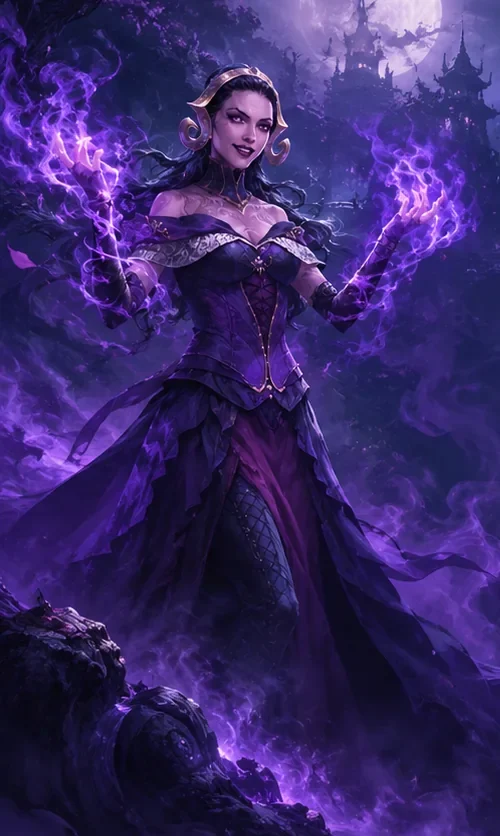
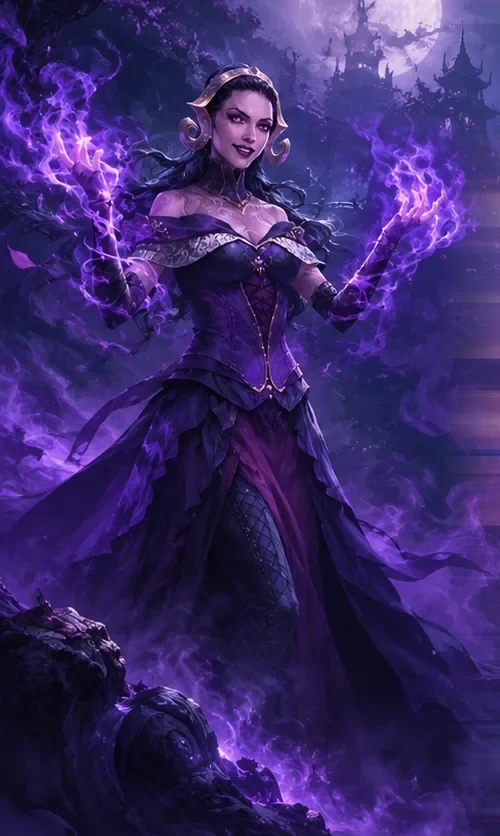
Suaviza la apertura de la intro y elimina la costura entre mitades
La escena se disuelve con menos desplazamiento, más desenfoque y una inercia
corta. Las mitades se solapan 1 px y el compuesto móvil funde el centro para
que no aparezca la raya oscura al estar juntas.

diff --git a/styles.css b/styles.css
@@ -186,11 +186,11 @@ ul { margin: 0; padding: 0; list-style: none; }
   position: absolute;
   top: 0;
   bottom: 0;
-  width: 50%;
+  width: calc(50% + 0.5px);
   overflow: hidden;
   will-change: translate, rotate, scale, opacity, filter;
-  opacity: calc(1 - var(--open) * var(--open) * 0.9);
-  filter: blur(calc(var(--open) * var(--open) * 2.4px));
+  opacity: calc(1 - var(--open) * var(--open) * 0.82);
+  filter: blur(calc(var(--open) * var(--open) * 10px)) saturate(calc(1 - var(--open) * 0.22));
 }
 .scene-half picture { display: contents; }
 .scene-half img {
@@ -206,21 +206,21 @@ ul { margin: 0; padding: 0; list-style: none; }
 .scene-half-l {
   left: 0;
   transform-origin: left center;
-  translate: calc(var(--open) * -52vw) calc(var(--open) * 2.2vh);
-  rotate: calc(var(--open) * -1.1deg);
-  scale: calc(1 + var(--open) * 0.16);
-  -webkit-mask-image: linear-gradient(to right, #000 0%, #000 calc(100% - var(--open) * var(--open) * 34%), rgba(0, 0, 0, 0) 100%);
-  mask-image: linear-gradient(to right, #000 0%, #000 calc(100% - var(--open) * var(--open) * 34%), rgba(0, 0, 0, 0) 100%);
+  translate: calc(var(--open) * -12vw) calc(var(--open) * 1.2vh);
+  rotate: calc(var(--open) * -0.45deg);
+  scale: calc(1 + var(--open) * 0.045);
+  -webkit-mask-image: linear-gradient(to right, #fff 0%, #fff calc(100% - var(--open) * var(--open) * 34%), transparent 100%);
+  mask-image: linear-gradient(to right, #fff 0%, #fff calc(100% - var(--open) * var(--open) * 34%), transparent 100%);
 }
 .scene-half-l img { left: 0; }
 .scene-half-r {
   right: 0;
   transform-origin: right center;
-  translate: calc(var(--open) * 52vw) calc(var(--open) * -2.2vh);
-  rotate: calc(var(--open) * 1.1deg);
-  scale: calc(1 + var(--open) * 0.16);
-  -webkit-mask-image: linear-gradient(to left, #000 0%, #000 calc(100% - var(--open) * var(--open) * 34%), rgba(0, 0, 0, 0) 100%);
-  mask-image: linear-gradient(to left, #000 0%, #000 calc(100% - var(--open) * var(--open) * 34%), rgba(0, 0, 0, 0) 100%);
+  translate: calc(var(--open) * 12vw) calc(var(--open) * -1.2vh);
+  rotate: calc(var(--open) * 0.45deg);
+  scale: calc(1 + var(--open) * 0.045);
+  -webkit-mask-image: linear-gradient(to left, #fff 0%, #fff calc(100% - var(--open) * var(--open) * 34%), transparent 100%);
+  mask-image: linear-gradient(to left, #fff 0%, #fff calc(100% - var(--open) * var(--open) * 34%), transparent 100%);
 }
 .scene-half-r img { left: -100%; }
 
@@ -230,12 +230,12 @@ ul { margin: 0; padding: 0; list-style: none; }
   bottom: 0;
   left: 50%;
   z-index: 1;
-  width: calc(2px + var(--open) * 90px);
+  width: calc(1px + var(--open) * 70px);
   transform: translateX(-50%);
   background: linear-gradient(180deg, transparent, rgba(255, 143, 184, 0.5) 28%, rgba(139, 107, 255, 0.75) 52%, rgba(79, 240, 216, 0.4) 72%, transparent);
-  filter: blur(calc(1px + var(--open) * 9px));
-  opacity: calc(var(--open) * 1.2 * (1 - var(--fade)));
-  box-shadow: 0 0 80px 18px rgba(139, 107, 255, 0.18);
+  filter: blur(calc(0.5px + var(--open) * 8px));
+  opacity: calc(var(--open) * 0.95 * (1 - var(--fade)));
+  box-shadow: 0 0 70px 16px rgba(139, 107, 255, 0.16);
   mix-blend-mode: screen;
   pointer-events: none;
 }
@@ -525,8 +525,8 @@ body.has-pointer .cursor-glow { opacity: 1; }
   padding: clamp(52px, 8vh, 104px) 0 clamp(84px, 10vh, 120px);
   overflow: hidden;
   isolation: isolate;
-  --open: clamp(0, calc(var(--scene, 0) / 0.45), 1);
-  --fade: clamp(0, calc((var(--scene, 0) - 0.45) / 0.17), 1);
+  --open: clamp(0, calc(var(--scene, 0) / 0.5), 1);
+  --fade: clamp(0, calc((var(--scene, 0) - 0.42) / 0.2), 1);
 }
 .hero .wrap { position: relative; z-index: 2; }
 .hero .hero-copy {
@@ -534,6 +534,7 @@ body.has-pointer .cursor-glow { opacity: 1; }
   filter: blur(calc(var(--fade) * 5px));
   translate: 0 calc(var(--fade) * -24px);
   scale: calc(1 - var(--fade) * 0.02);
+  will-change: opacity, filter, translate, scale;
 }
 .hero.is-revealed .hero-copy,
 .hero.is-revealed .scroll-cue {
@@ -1643,18 +1644,18 @@ body.has-pointer .cursor-glow { opacity: 1; }
   .scene-half img { width: 100%; height: 100%; left: 0; object-position: center top; }
   .scene-half-r img { left: 0; }
   .scene-half-l {
-    -webkit-mask-image: linear-gradient(to right, #fff 0%, #fff 86%, rgba(255, 255, 255, 0.5) 96%, transparent 100%);
-    mask-image: linear-gradient(to right, #fff 0%, #fff 86%, rgba(255, 255, 255, 0.5) 96%, transparent 100%);
+    translate: calc(var(--open) * -7vw) calc(var(--open) * 1vh);
+    -webkit-mask-image: linear-gradient(to right, #fff 0%, #fff calc(100% - var(--open) * 18%), transparent 100%);
+    mask-image: linear-gradient(to right, #fff 0%, #fff calc(100% - var(--open) * 18%), transparent 100%);
   }
   .scene-half-r {
-    -webkit-mask-image: linear-gradient(to left, #fff 0%, #fff 86%, rgba(255, 255, 255, 0.5) 96%, transparent 100%);
-    mask-image: linear-gradient(to left, #fff 0%, #fff 86%, rgba(255, 255, 255, 0.5) 96%, transparent 100%);
+    translate: calc(var(--open) * 7vw) calc(var(--open) * -1vh);
+    -webkit-mask-image: linear-gradient(to left, #fff 0%, #fff calc(100% - var(--open) * 18%), transparent 100%);
+    mask-image: linear-gradient(to left, #fff 0%, #fff calc(100% - var(--open) * 18%), transparent 100%);
   }
   .scene-haze {
     opacity: 1;
-    background:
-      linear-gradient(90deg, transparent 0%, rgba(7, 5, 13, 0.32) 44%, rgba(7, 5, 13, 0.48) 50%, rgba(7, 5, 13, 0.32) 56%, transparent 100%),
-      linear-gradient(180deg, rgba(7, 5, 13, 0.12) 0%, transparent 20%, rgba(7, 5, 13, 0.55) calc(var(--scene-h) - 52px), rgba(7, 5, 13, 0.96) calc(var(--scene-h) - 8px), var(--bg) var(--scene-h));
+    background: linear-gradient(180deg, rgba(7, 5, 13, 0.06) 0%, transparent 22%, rgba(7, 5, 13, 0.5) calc(var(--scene-h) - 52px), rgba(7, 5, 13, 0.96) calc(var(--scene-h) - 8px), var(--bg) var(--scene-h));
   }
   .hero h1 { font-size: clamp(2.25rem, 10vw, 2.9rem); margin-bottom: 14px; }
   .hero .lead { font-size: 0.9rem; line-height: 1.5; margin-bottom: 20px; }
@@ -1747,6 +1748,8 @@ body.has-pointer .cursor-glow { opacity: 1; }
     padding-bottom: 64px;
   }
   .scene-split { height: var(--scene-h); }
+  .scene-half-l { translate: calc(var(--open) * -6vw) calc(var(--open) * 0.8vh); }
+  .scene-half-r { translate: calc(var(--open) * 6vw) calc(var(--open) * -0.8vh); }
   .hero h1 { font-size: clamp(2rem, 9.5vw, 2.5rem); margin-bottom: 8px; }
   .hero .lead { font-size: 0.84rem; line-height: 1.45; margin-bottom: 12px; }
   .hero .eyebrow { margin-bottom: 10px; }

diff --git a/index.html b/index.html
@@ -11,9 +11,9 @@
   <link rel="preconnect" href="https://fonts.gstatic.com" crossorigin />
   <link href="https://fonts.googleapis.com/css2?family=Sora:wght@500;600;700;800&family=Inter:wght@400;500;600&display=swap" rel="stylesheet" />
   <link rel="preload" as="image" href="assets/escena/hechicera-guerrera.webp" media="(min-width: 621px)" />
-  <link rel="preload" as="image" href="assets/escena/sorceress-mobile.webp" media="(max-width: 620px)" />
-  <link rel="preload" as="image" href="assets/escena/warrior-mobile.webp" media="(max-width: 620px)" />
-  <link rel="stylesheet" href="styles.css?v=2" />
+  <link rel="preload" as="image" href="assets/escena/sorceress-mobile.webp?v=2" media="(max-width: 620px)" />
+  <link rel="preload" as="image" href="assets/escena/warrior-mobile.webp?v=2" media="(max-width: 620px)" />
+  <link rel="stylesheet" href="styles.css?v=3" />
 
   <meta property="og:type" content="website" />
   <meta property="og:title" content="Akali Suply · Tu juego nuestro suply" />
@@ -103,13 +103,13 @@
       <div class="scene-split" aria-hidden="true">
         <div class="scene-half scene-half-l">
           <picture>
-            <source media="(max-width: 620px)" srcset="assets/escena/sorceress-mobile.webp" type="image/webp" />
+            <source media="(max-width: 620px)" srcset="assets/escena/sorceress-mobile.webp?v=2" type="image/webp" />
             <img src="assets/escena/hechicera-guerrera.webp" alt="" width="1672" height="941" decoding="async" draggable="false" />
           </picture>
         </div>
         <div class="scene-half scene-half-r">
           <picture>
-            <source media="(max-width: 620px)" srcset="assets/escena/warrior-mobile.webp" type="image/webp" />
+            <source media="(max-width: 620px)" srcset="assets/escena/warrior-mobile.webp?v=2" type="image/webp" />
             <img src="assets/escena/hechicera-guerrera.webp" alt="" width="1672" height="941" decoding="async" draggable="false" />
           </picture>
         </div>
@@ -409,6 +409,6 @@
 
   <div class="toast" id="toast" role="status" aria-live="polite"></div>
 
-  <script src="app.js"></script>
+  <script src="app.js?v=2"></script>
 </body>
 </html>

diff --git a/app.js b/app.js
@@ -616,13 +616,36 @@ function initScene() {
   const pin = hero && hero.closest(".intro-pin");
   if (!hero || !pin) return;
 
-  const update = () => {
+  const reduce = window.matchMedia("(prefers-reduced-motion: reduce)").matches;
+  let target = 0;
+  let current = 0;
+  let rafId = 0;
+
+  const measure = () => {
     const introTop = pin.getBoundingClientRect().top + window.scrollY;
     const stickyTop = parseFloat(getComputedStyle(hero).top) || 0;
     const end = Math.max(1, introTop + pin.offsetHeight - hero.offsetHeight - stickyTop);
-    const progress = Math.min(1, Math.max(0, window.scrollY / end));
-    hero.style.setProperty("--scene", progress.toFixed(4));
-    hero.classList.toggle("is-revealed", progress > 0.58);
+    target = Math.min(1, Math.max(0, window.scrollY / end));
+  };
+
+  const paint = () => {
+    // La escena persigue al scroll con una inercia corta: nada de saltos.
+    current += (target - current) * 0.14;
+    if (Math.abs(target - current) < 0.0008) current = target;
+    hero.style.setProperty("--scene", current.toFixed(4));
+    hero.classList.toggle("is-revealed", current > 0.58);
+    rafId = current === target ? 0 : requestAnimationFrame(paint);
+  };
+
+  const update = () => {
+    measure();
+    if (reduce) {
+      current = target;
+      hero.style.setProperty("--scene", current.toFixed(4));
+      hero.classList.toggle("is-revealed", current > 0.58);
+      return;
+    }
+    if (!rafId) rafId = requestAnimationFrame(paint);
   };
 
   window.addEventListener("scroll", update, { passive: true });
